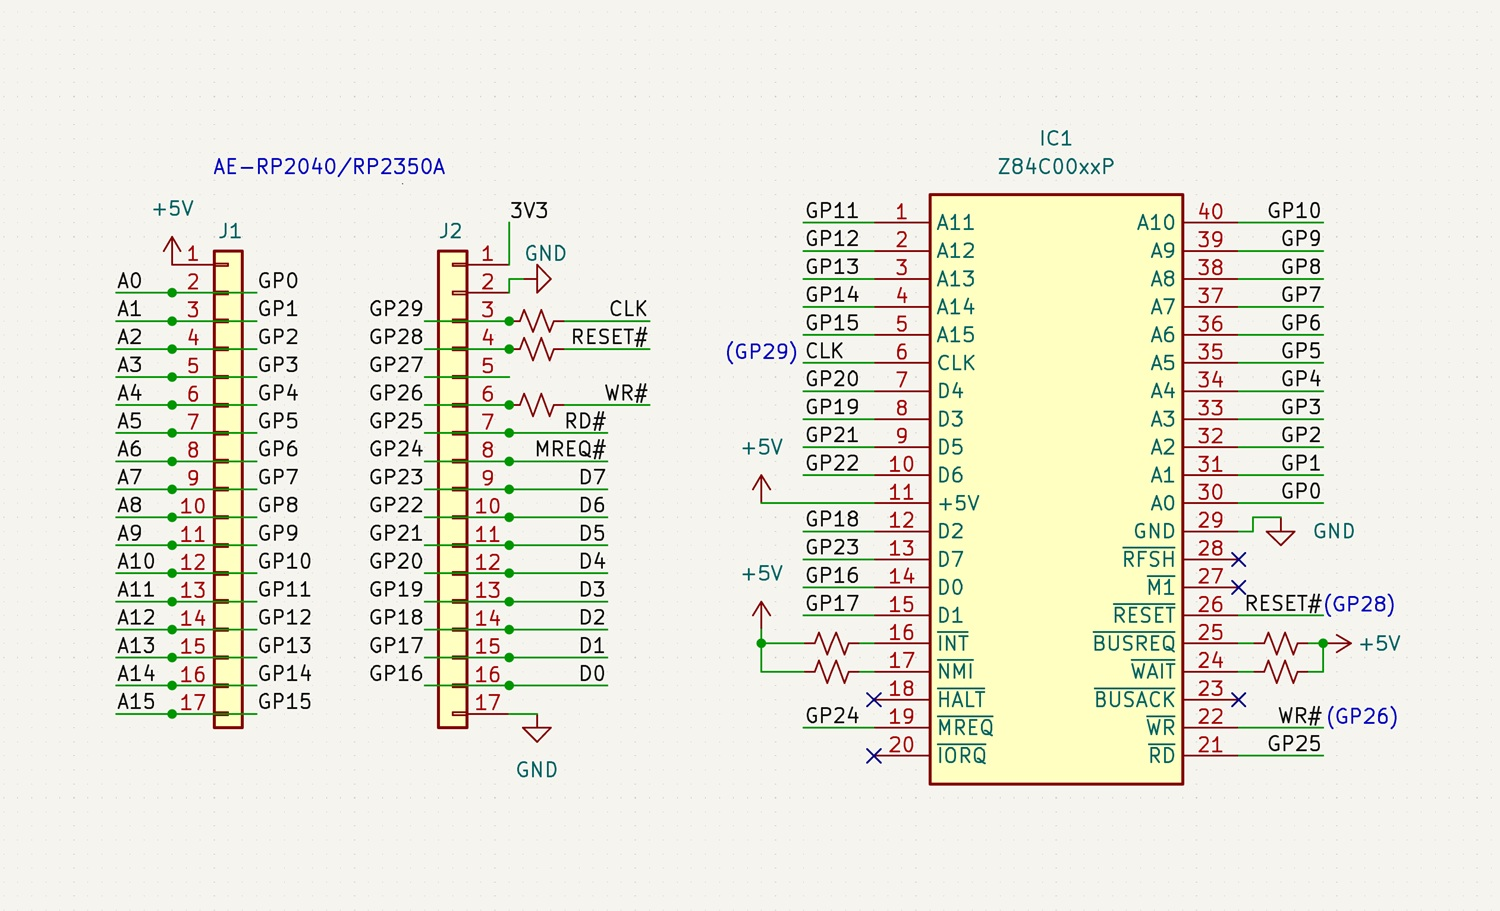
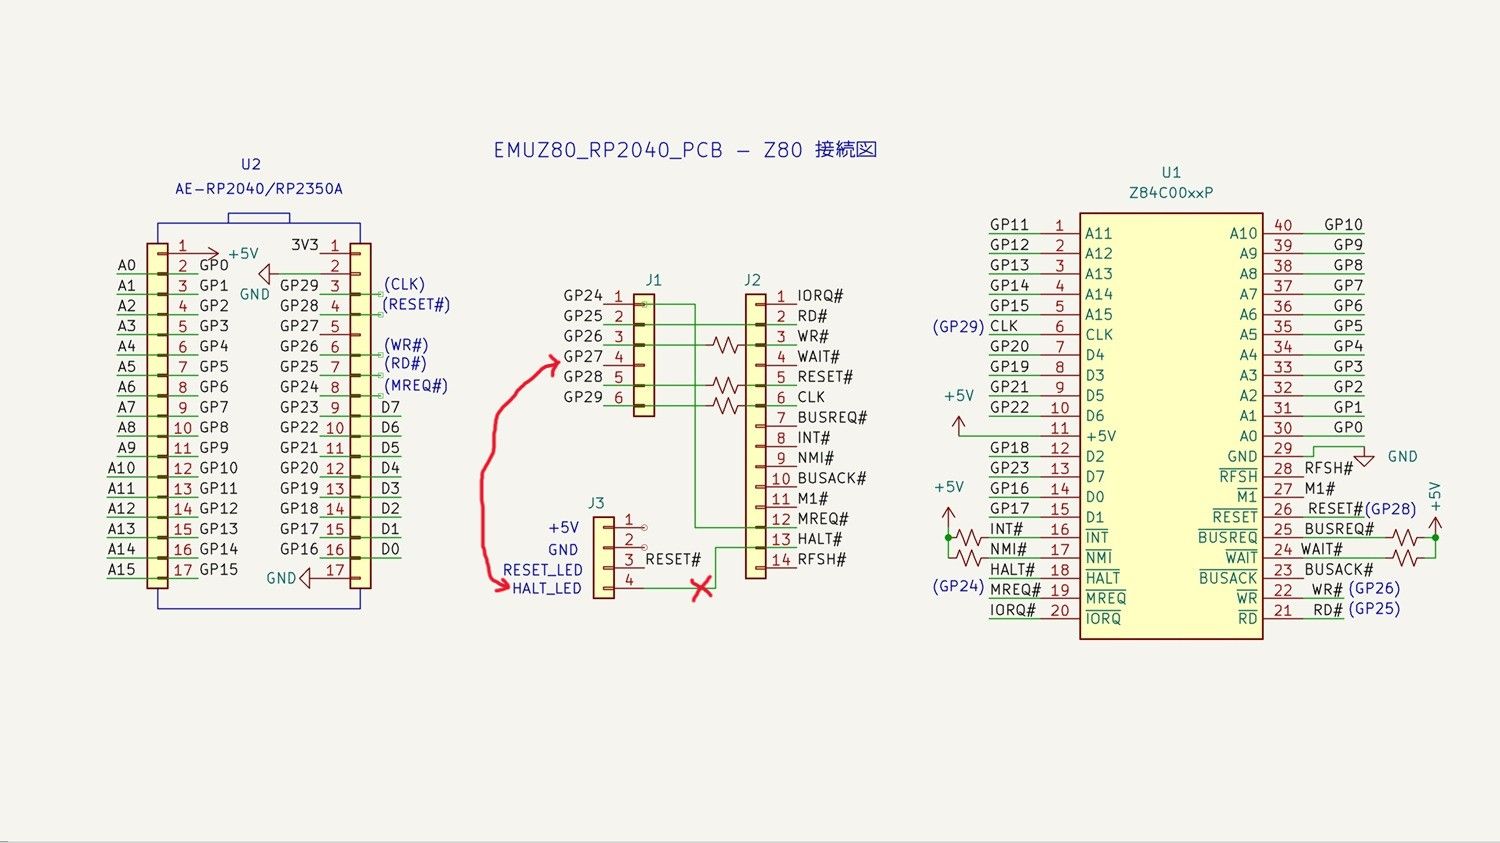
update 回路図

diff --git a/README.md b/README.md
@@ -168,8 +168,13 @@ EMUZ80_RP2040_PCB_Firmware/
 HI-TECH-C Z80 実行例
 ![img9](./img/img9.png)
 
-### 回路図
-![img3](./img/img3.jpg)
+### 接続図
+![接続図](./img/img3.jpg)
+
+### EMUZ80_RP2040_PCB 全体回路図
+![回路図](./img/img5.png)
+
+
 ### 基板裏面
 ![img4](./img/img4.jpg)
 ** BUSRQ,INT,NMI,WAITはプルアップ、RESETの LEDもジャンパで接続 **
